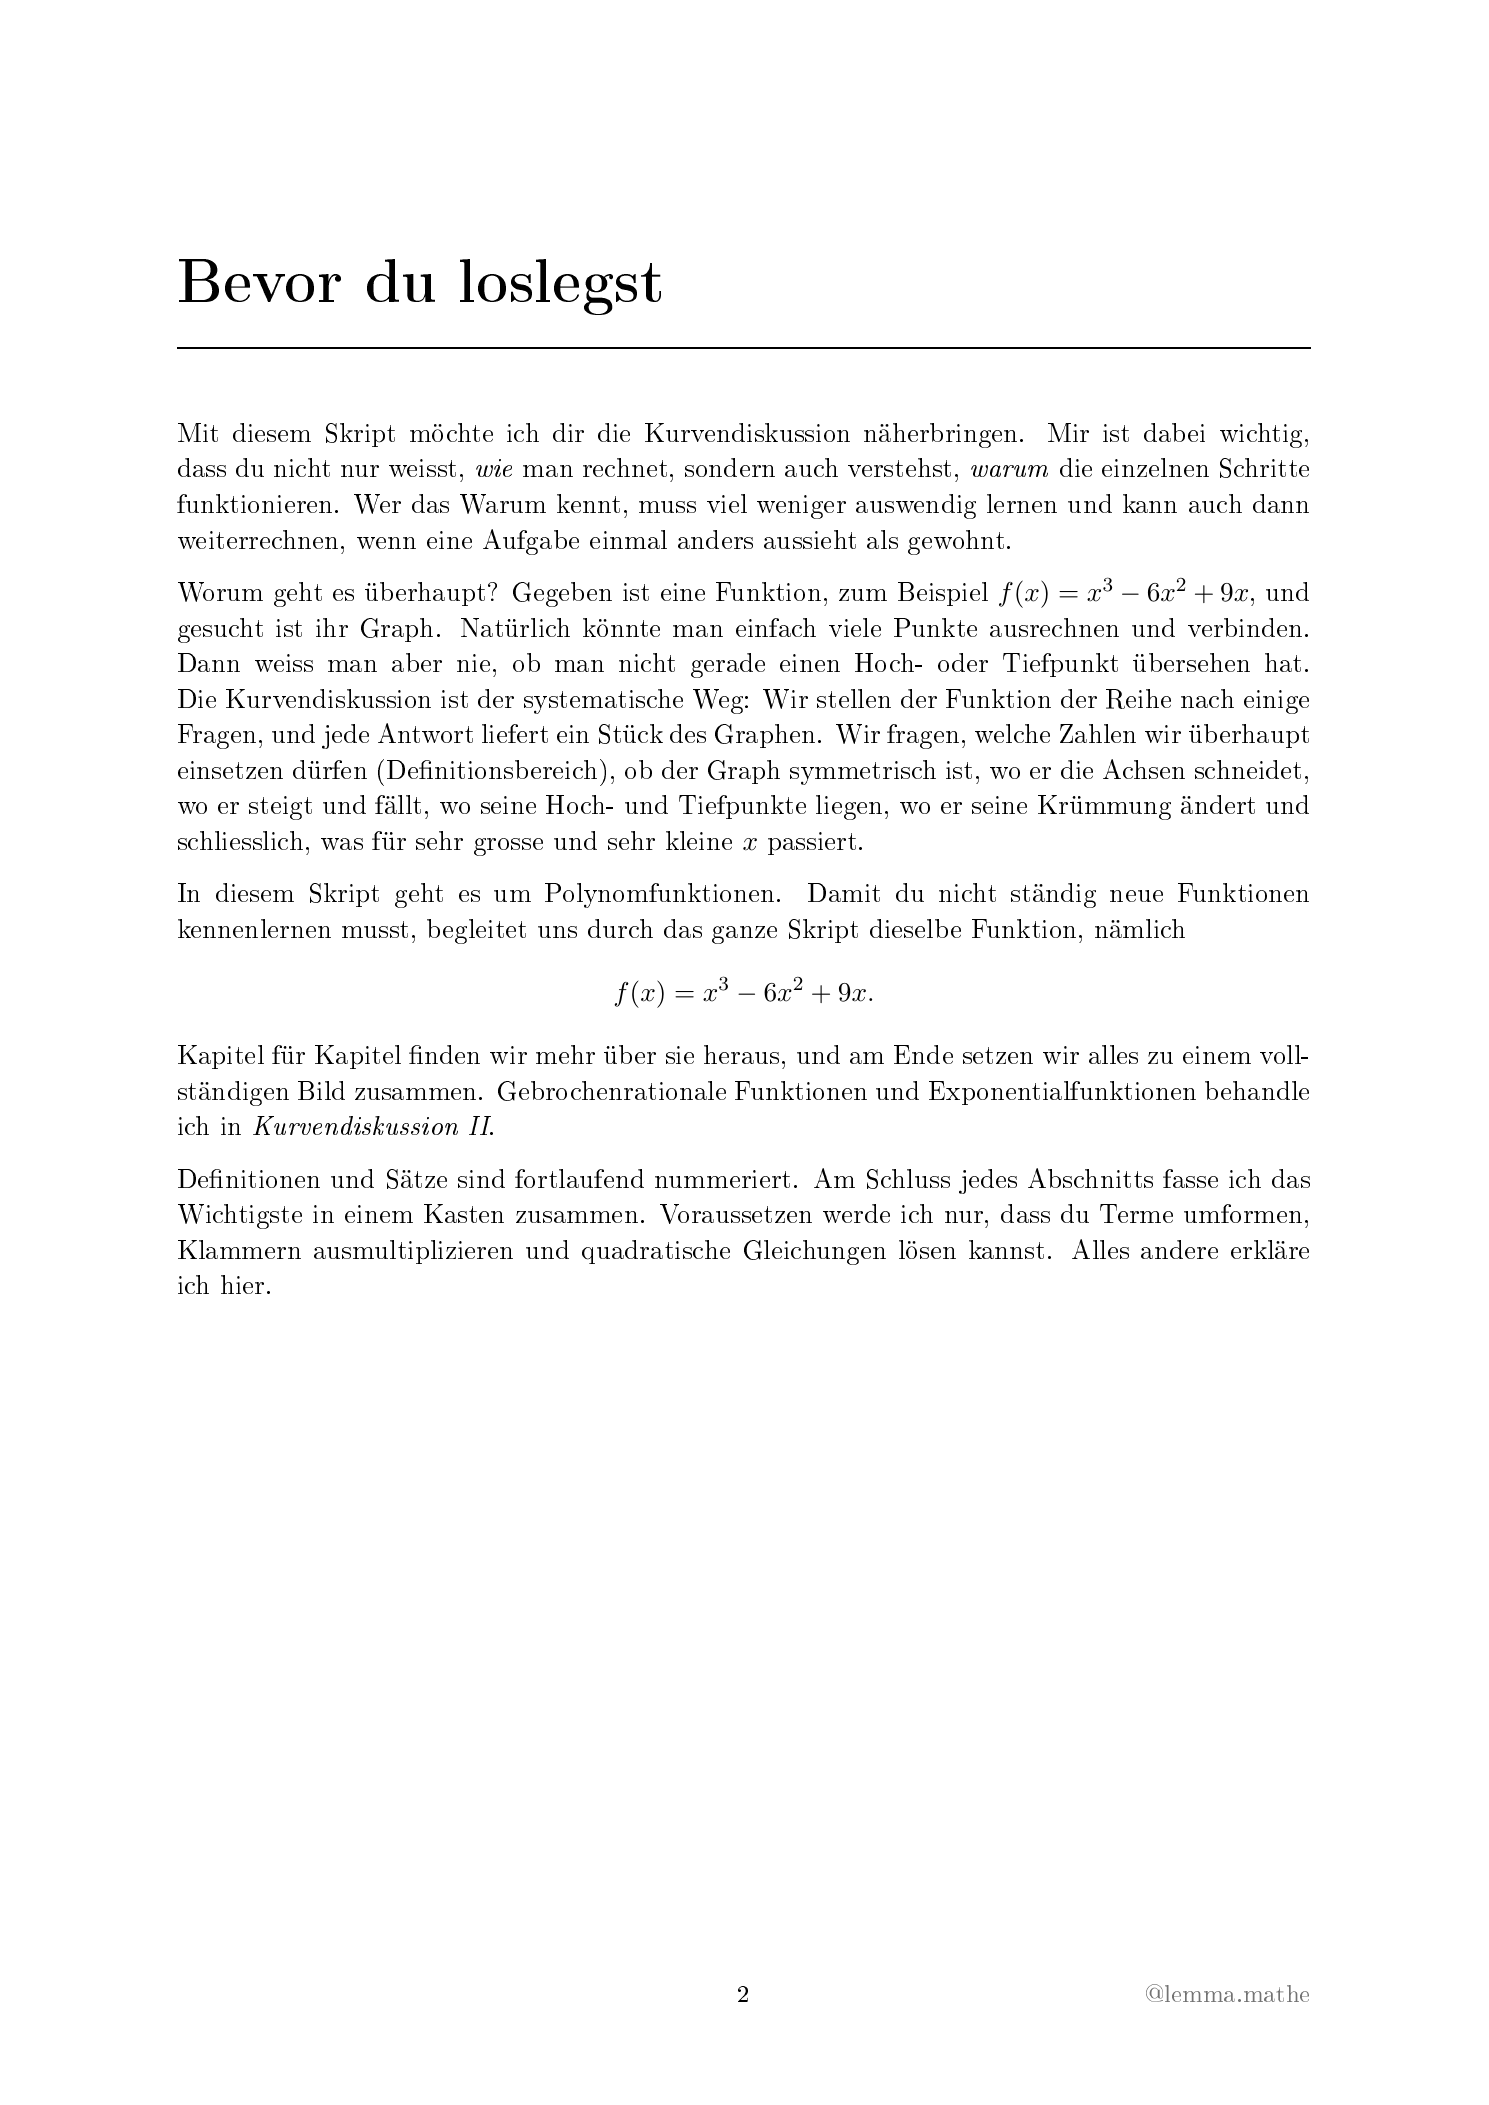
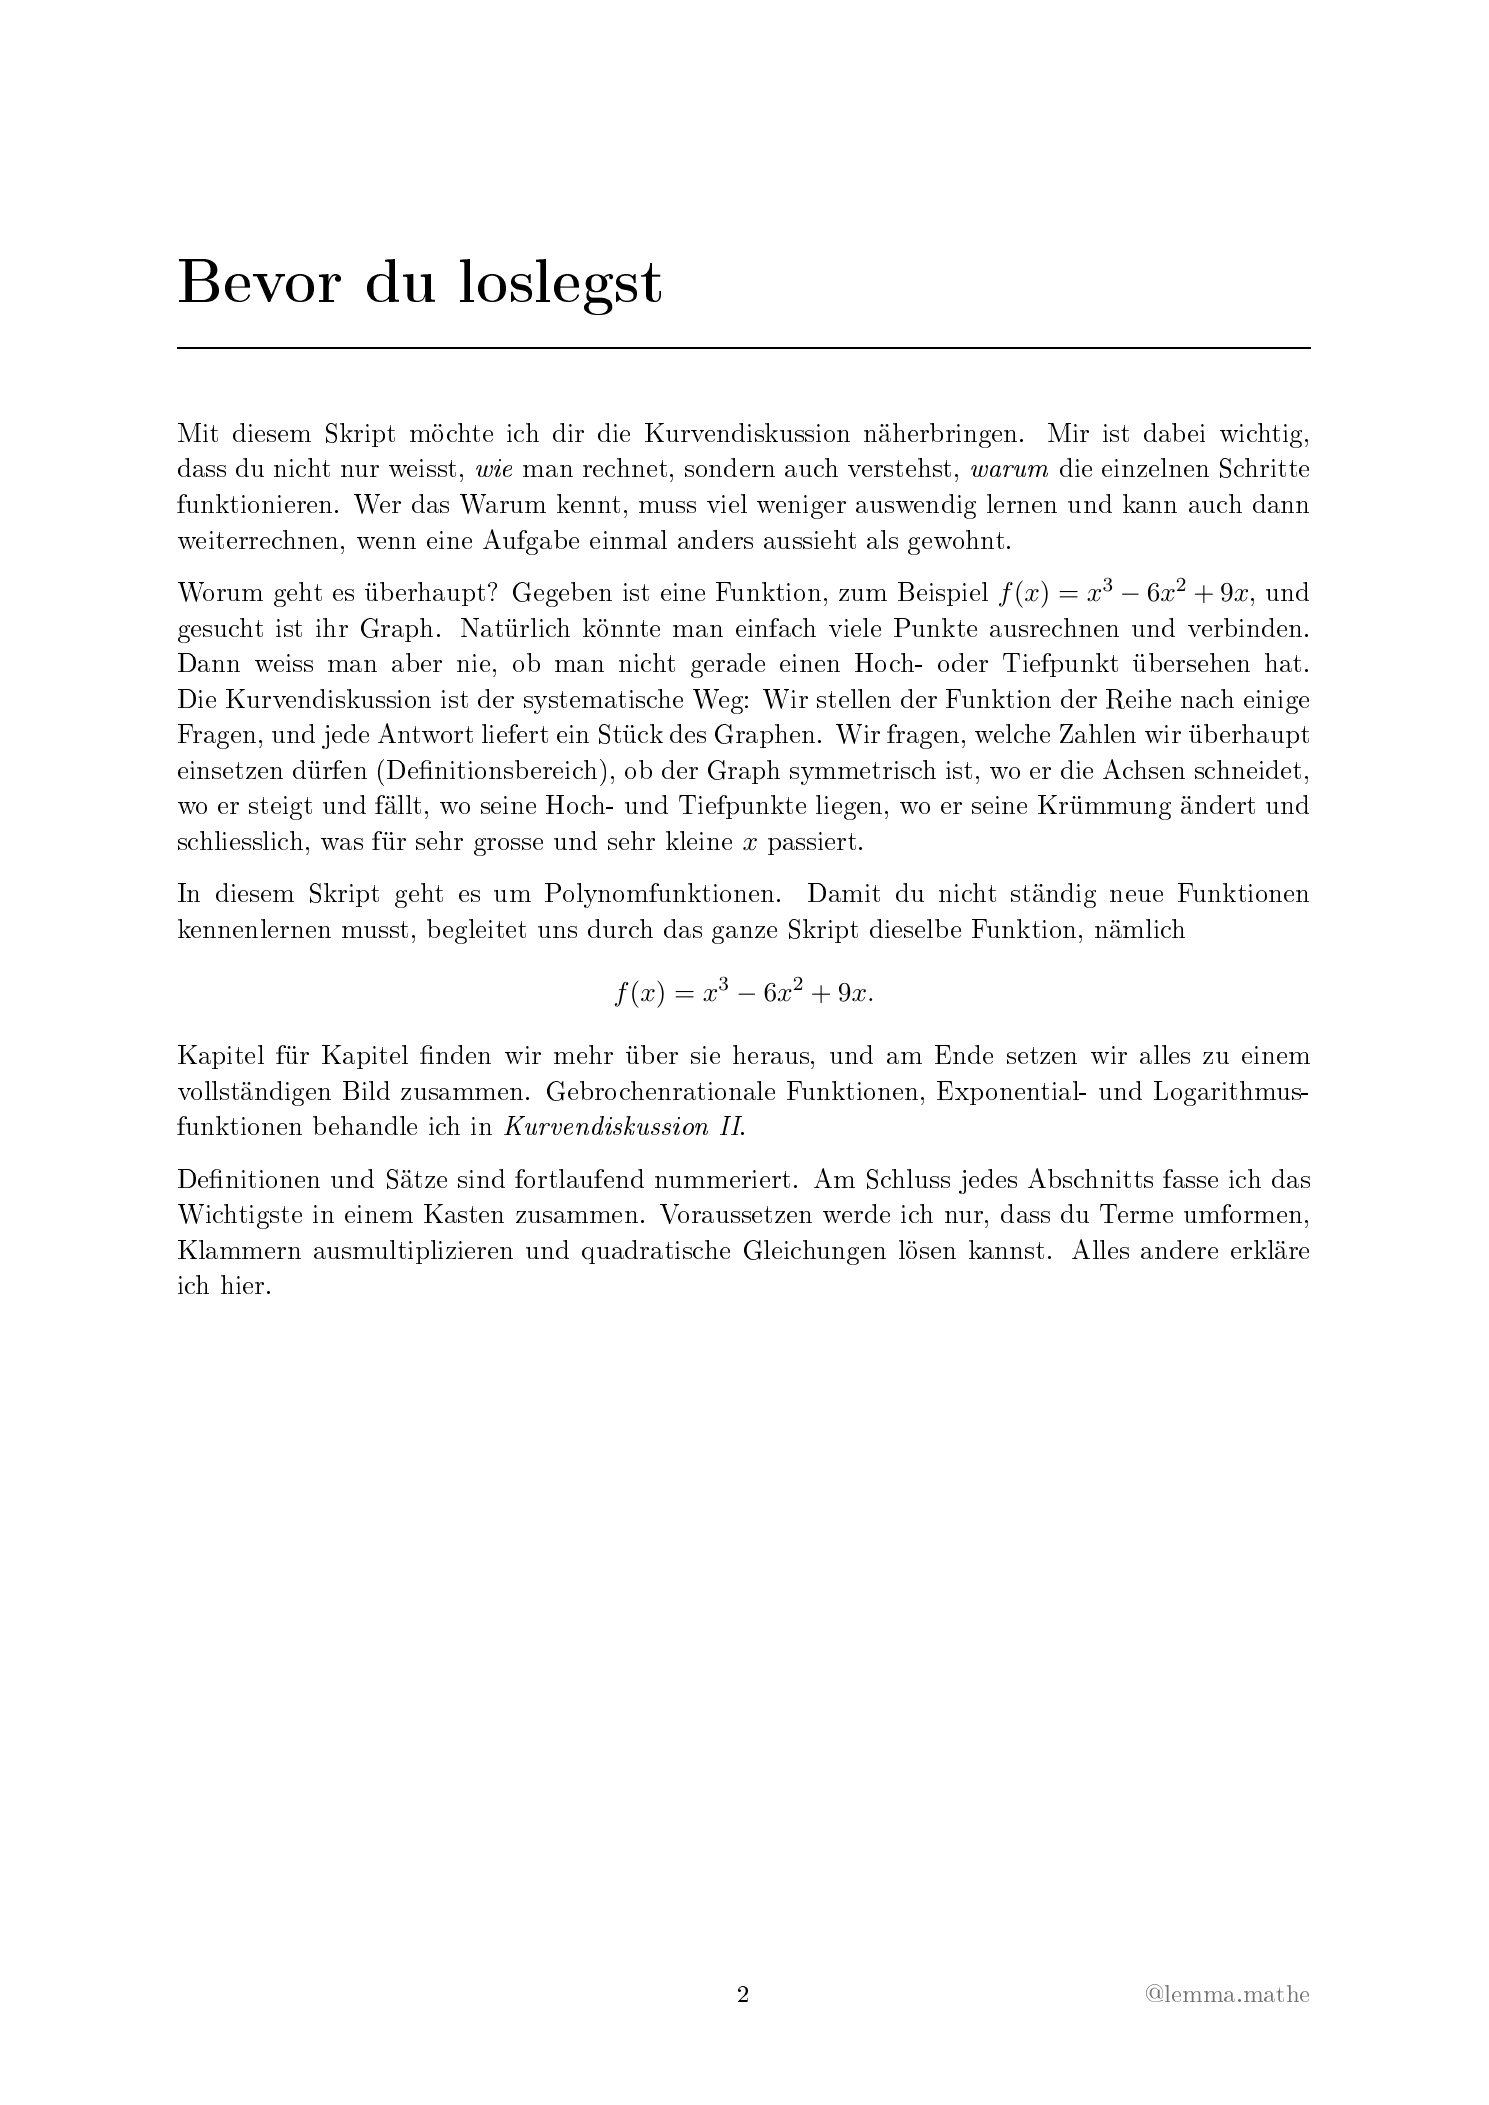
Kurvendiskussion I überarbeitet, Untertitel Kurvendiskussion II
- Kurvendiskussion I: präzisere Formulierungen (Substitution, Ableitungsregeln,
  Extrem-/Wendepunkte), Hinweis auf lemmamathe.ch; Version bleibt 1.1
- Leseprobe Seite 3 neu erzeugt
- Kurvendiskussion II: «Gebrochenrationale, Exponential- und Logarithmusfunktionen»

Changed region(s): [[0.1236, 0.4941, 0.8959, 0.5558]]

diff --git a/index.html b/index.html
@@ -727,7 +727,7 @@ const DOSSIERS = [
   {
     id: "kurvendiskussion-2",
     titel: "Kurvendiskussion II",
-    untertitel: "Gebrochenrationale und Exponentialfunktionen",
+    untertitel: "Gebrochenrationale, Exponential- und Logarithmusfunktionen",
     stufe: "Matura",
     reihe: "Analysis",
     status: "bald verfügbar",
